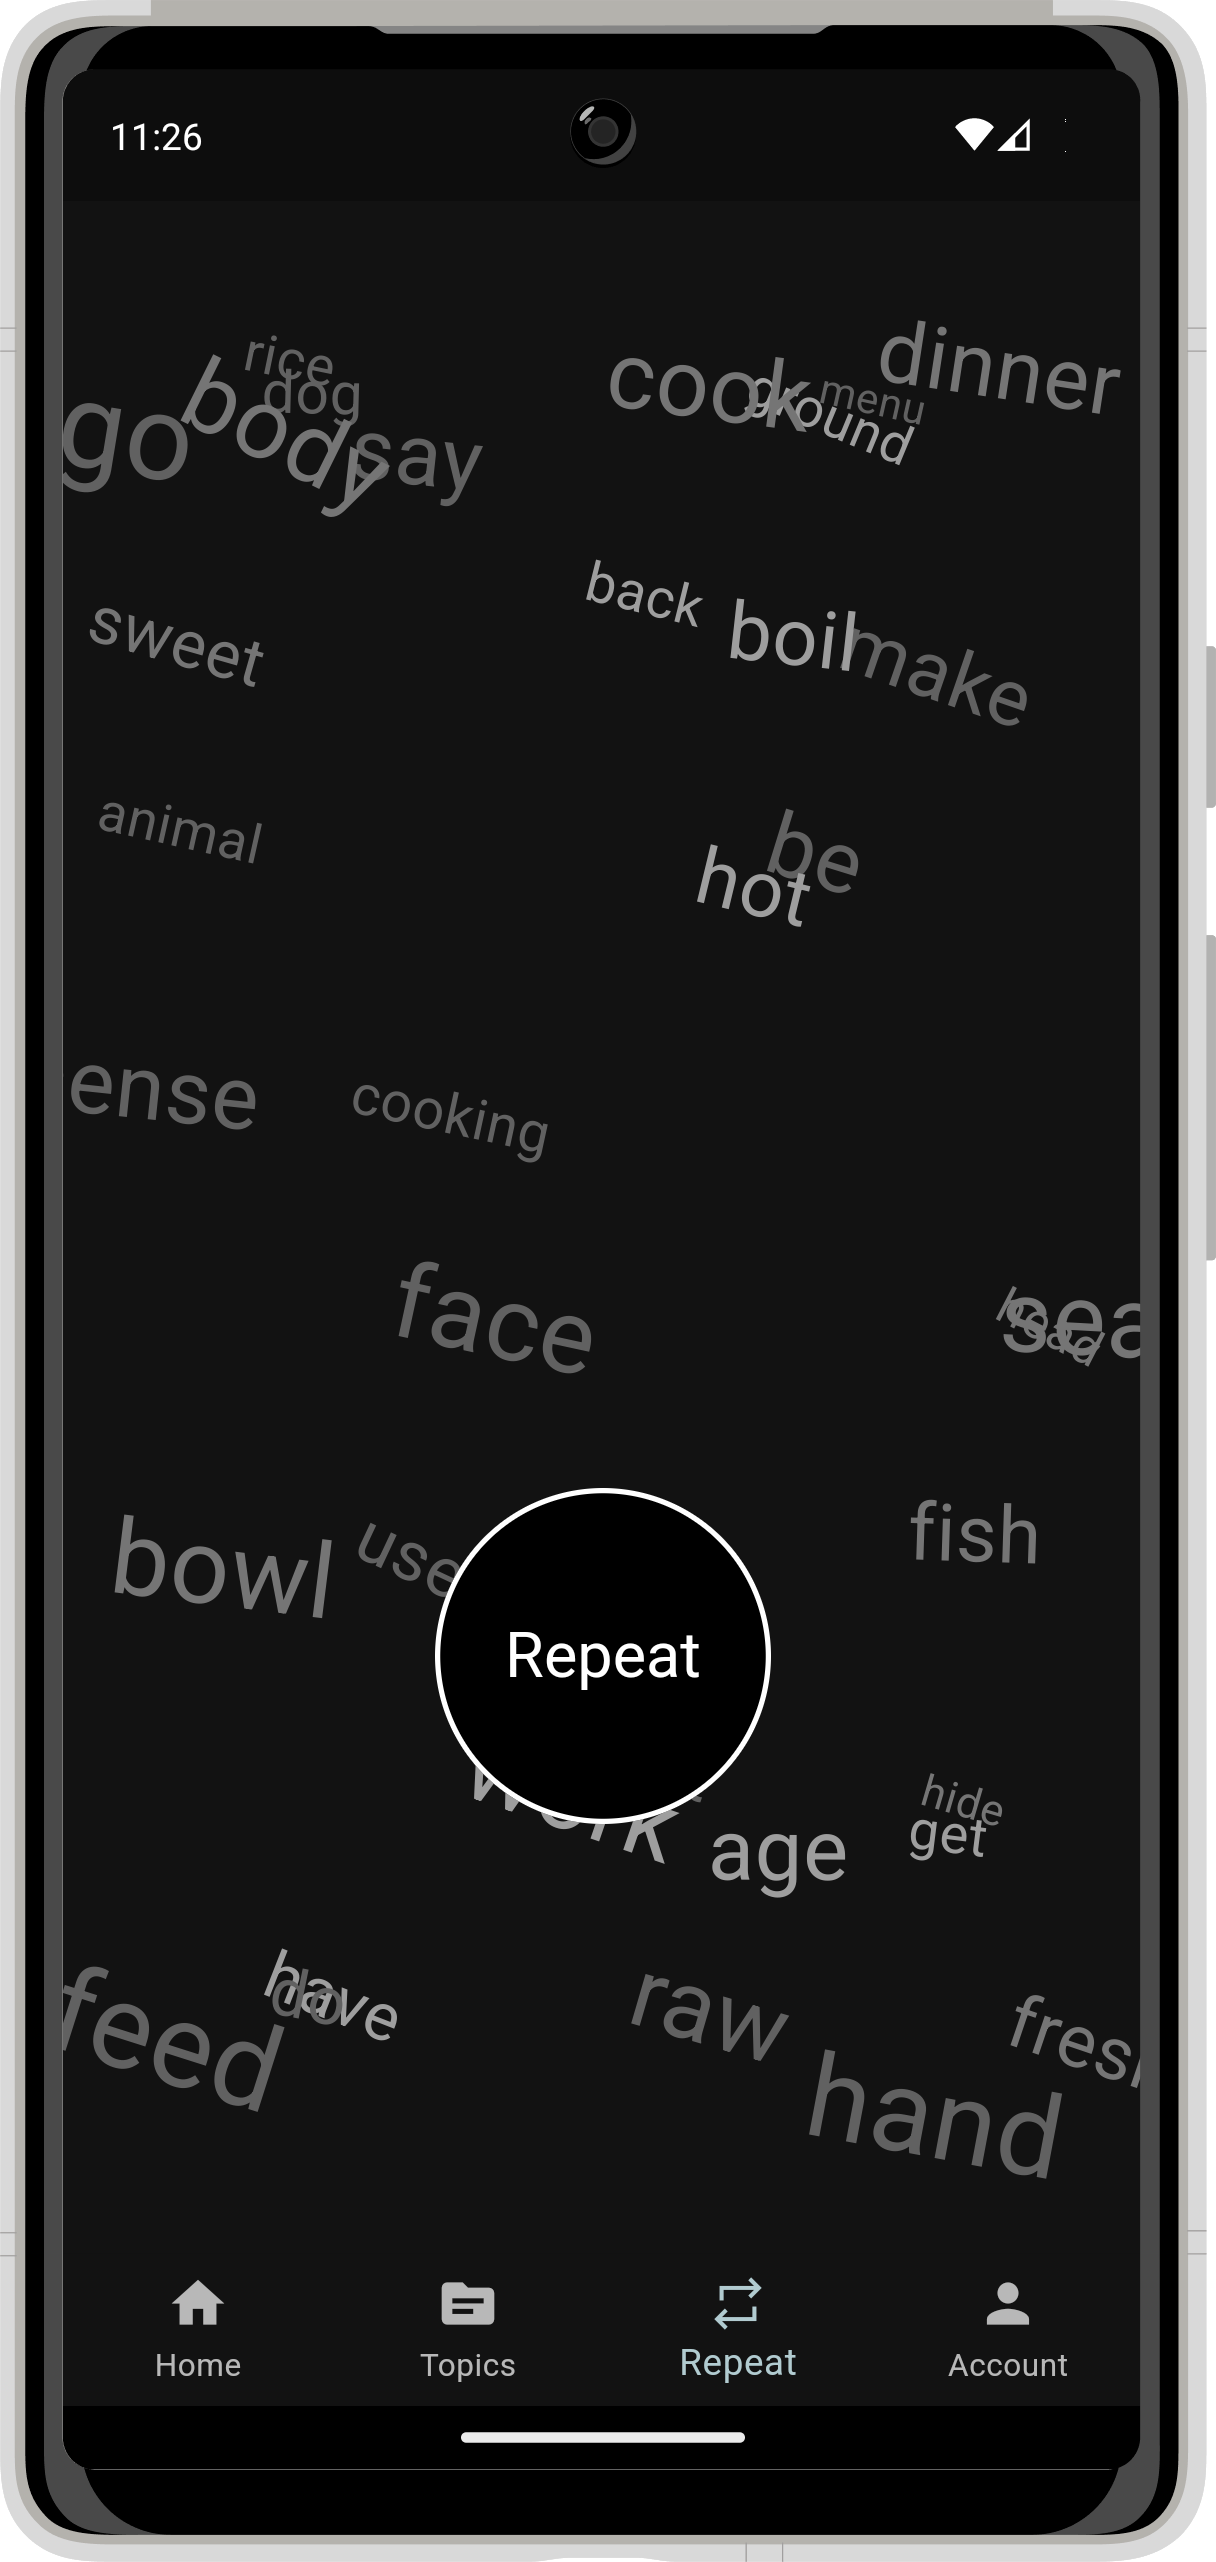
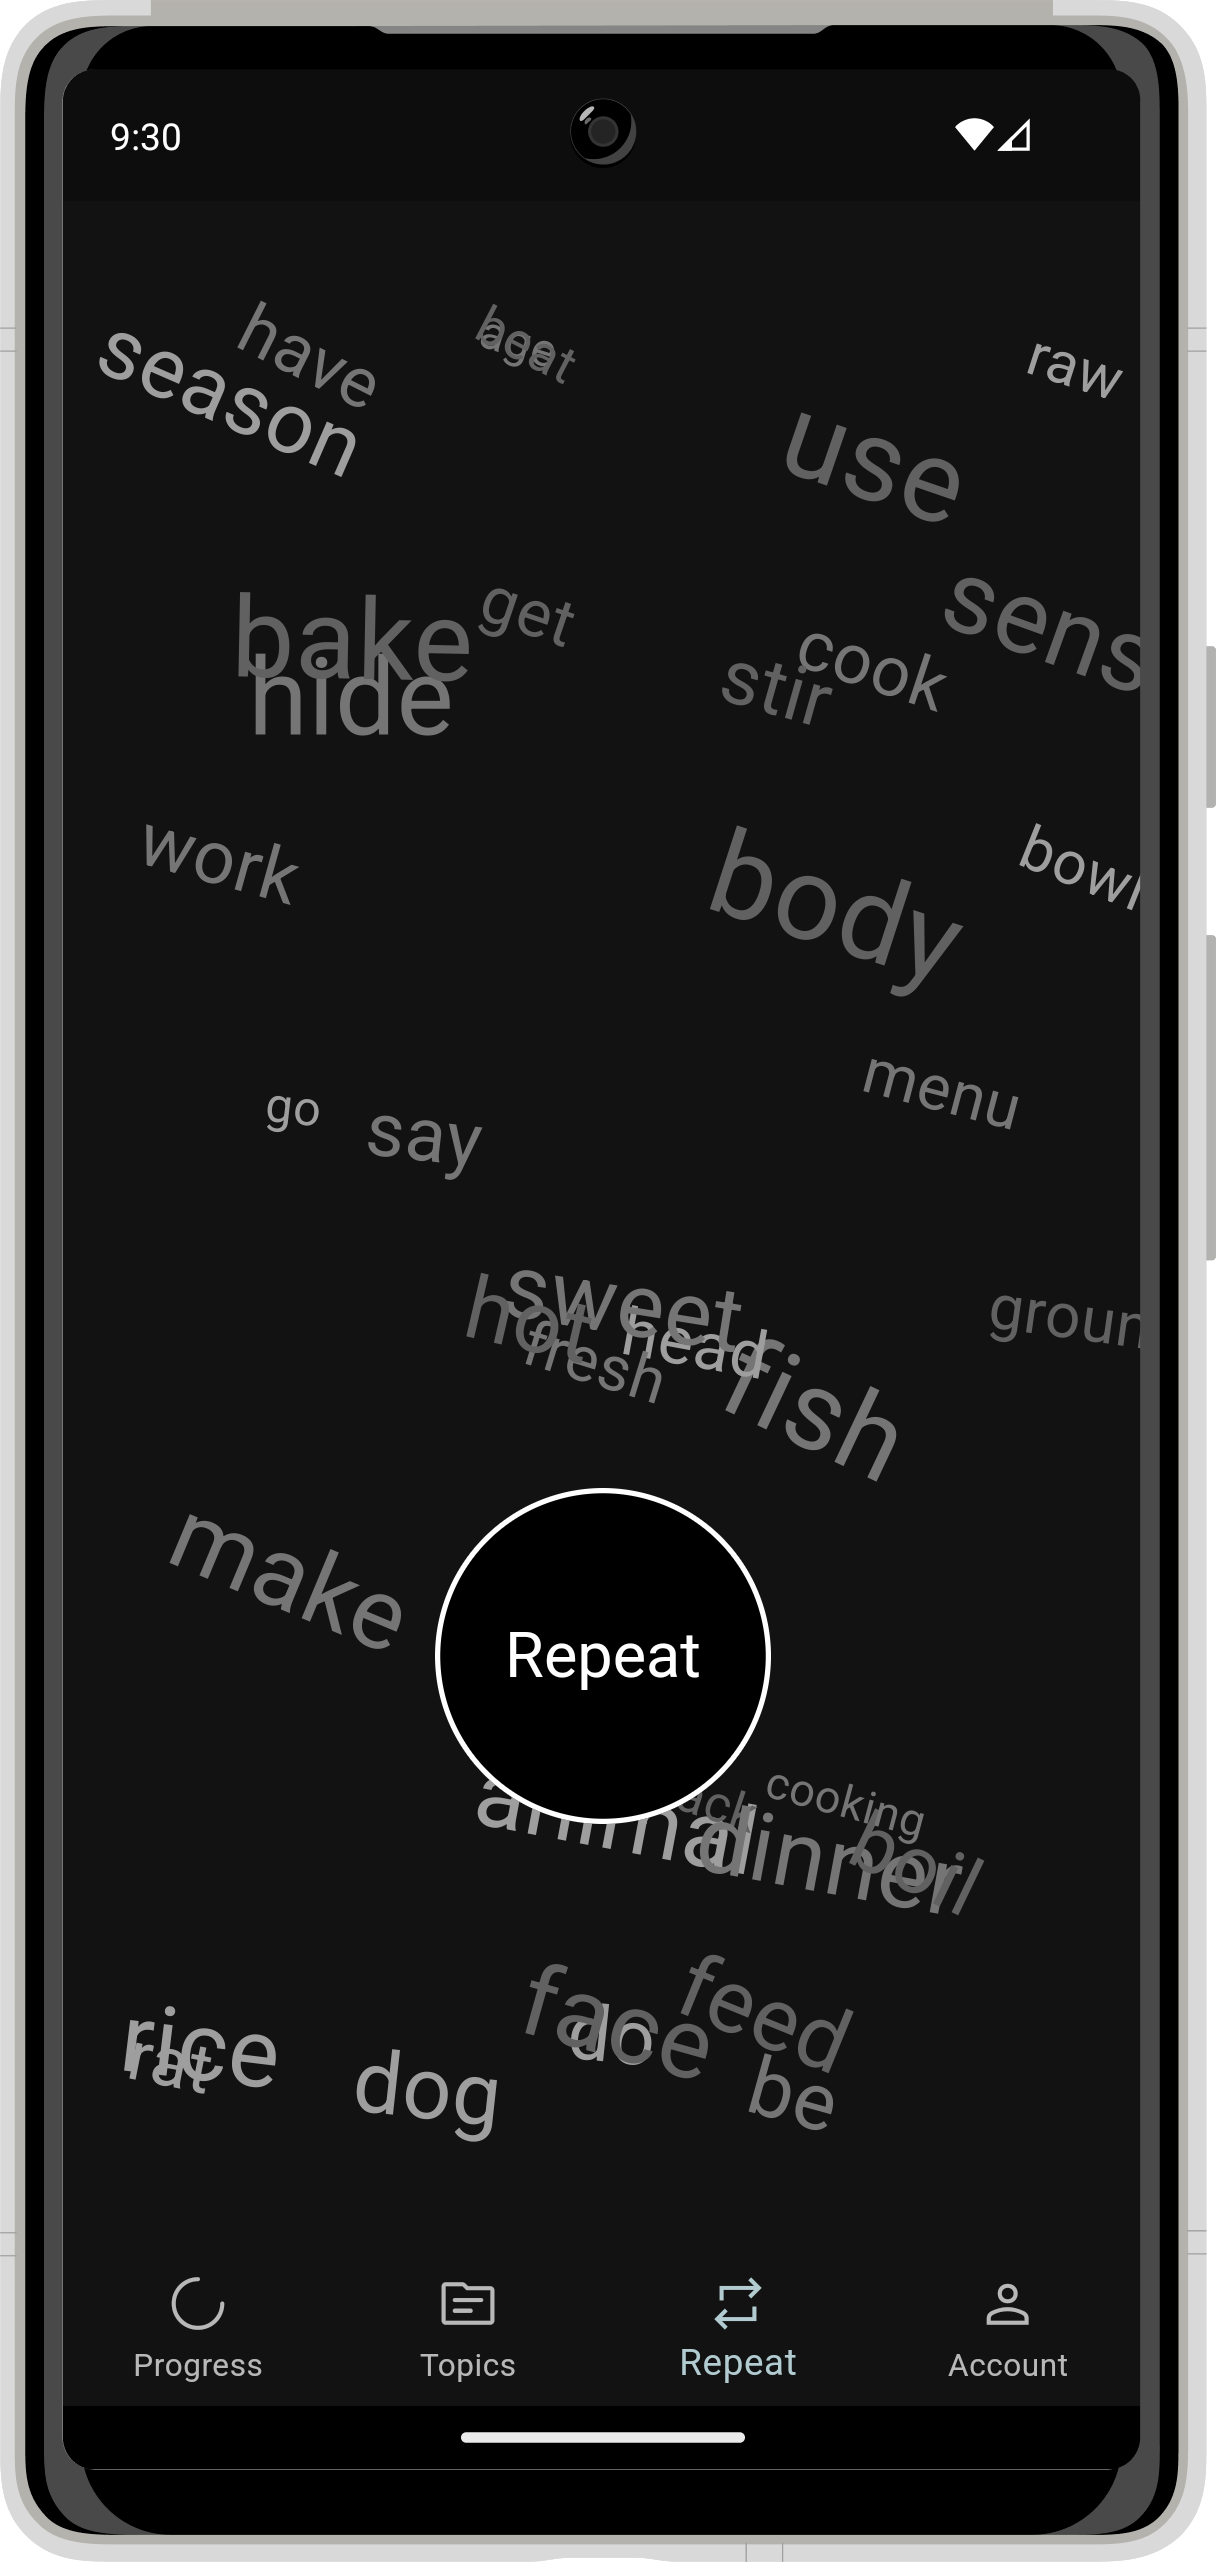
.

diff --git a/flutter_service_worker.js b/flutter_service_worker.js
@@ -6,7 +6,7 @@ const CACHE_NAME = 'flutter-app-cache';
 const RESOURCES = {".git/COMMIT_EDITMSG": "8cf8463b34caa8ac871a52d5dd7ad1ef",
 ".git/config": "55dfb8d6ff04fb0a8ec8c8e1c85ee269",
 ".git/description": "a0a7c3fff21f2aea3cfa1d0316dd816c",
-".git/FETCH_HEAD": "7440c351ae9080411820e39659045aec",
+".git/FETCH_HEAD": "b8417afabae4ef49076e6323fcb7696c",
 ".git/HEAD": "cf7dd3ce51958c5f13fece957cc417fb",
 ".git/hooks/applypatch-msg.sample": "ce562e08d8098926a3862fc6e7905199",
 ".git/hooks/commit-msg.sample": "579a3c1e12a1e74a98169175fb913012",
@@ -22,12 +22,12 @@ const RESOURCES = {".git/COMMIT_EDITMSG": "8cf8463b34caa8ac871a52d5dd7ad1ef",
 ".git/hooks/push-to-checkout.sample": "c7ab00c7784efeadad3ae9b228d4b4db",
 ".git/hooks/sendemail-validate.sample": "4d67df3a8d5c98cb8565c07e42be0b04",
 ".git/hooks/update.sample": "647ae13c682f7827c22f5fc08a03674e",
-".git/index": "d16e6ea34bec0821b8991287d4672f1b",
+".git/index": "1a4eb5ec011801ac96e6b8a3004a279d",
 ".git/info/exclude": "036208b4a1ab4a235d75c181e685e5a3",
-".git/logs/HEAD": "f95e6a3c84e4c5619e4345fb00fdd089",
-".git/logs/refs/heads/main": "f95e6a3c84e4c5619e4345fb00fdd089",
+".git/logs/HEAD": "b2805136673e1be4a28116e9ed29606b",
+".git/logs/refs/heads/main": "b2805136673e1be4a28116e9ed29606b",
 ".git/logs/refs/remotes/origin/HEAD": "838b855152d8df05301fdd7034416064",
-".git/logs/refs/remotes/origin/main": "de54068aa0b60619d3acf799c6bfb3ce",
+".git/logs/refs/remotes/origin/main": "58cb20b73fb634978c3737a614c8fc92",
 ".git/objects/04/4fd16176ef7e1d5ad27ed8c0347d8505f6f531": "0b8d7f70efc09596cbc4242cb3225b5c",
 ".git/objects/05/2d235ee81f6e4c2762411d4ab979f4cac0c8bc": "a948543180c0304538b74f7dbc62907f",
 ".git/objects/05/6ef07eb785d43ceff500dcf445f5755cdb7e52": "16302b5a934614eb66acb4cc9f52b6d3",
@@ -61,6 +61,7 @@ const RESOURCES = {".git/COMMIT_EDITMSG": "8cf8463b34caa8ac871a52d5dd7ad1ef",
 ".git/objects/25/fcea89b5c447f7478fda8d979062d9b9349fd3": "ed77762ef4e30406c702c43f31c1bff2",
 ".git/objects/28/97c01bd7b85a92c71db4805c95bc23bbcc0bf3": "8cd5a8fb640a15bbe319d206dde4d769",
 ".git/objects/29/267d5ab0a020347b7d41bde6a308e199121437": "53afd2a64dd18ede39d41e49c2be9529",
+".git/objects/29/af408499a384fcae87aae33f2168fbc218ee0c": "ab012c944a302253917cffa6fc06faa9",
 ".git/objects/2a/5628df00b89e71bbafbb341fdb0a89c3b51143": "a67646369d3f382f4e22249cff2a0cf6",
 ".git/objects/2c/3954d03d68d59bdcb7113dbf29457f828d577d": "94d9f761485c38effd05028be50582b5",
 ".git/objects/2d/f682ebbdf898e579128ceffa904e1b00466be7": "96f42b66573217d246407e232d1e07a6",
@@ -90,6 +91,7 @@ const RESOURCES = {".git/COMMIT_EDITMSG": "8cf8463b34caa8ac871a52d5dd7ad1ef",
 ".git/objects/42/3015003df72209ca145c2db3bb948775707057": "221a7352859dad4a7b3b88c889ead59b",
 ".git/objects/43/e382c6211ebc5ab2a7d4a6646edb71afdf738d": "cc50a0816a0c1d2330213d8f39582995",
 ".git/objects/44/34ad2e05cdd23354488009a3ef9824672c699b": "b496812499a65f9b47680ba0c398a109",
+".git/objects/44/ff03b6e19cd193882679e60a32e0d406a850ba": "d4b5a9c2749afe1d706e0e46654fb344",
 ".git/objects/45/c6f0bb4d09605fc2883ab3623f6af24936bde0": "7247c488b3455c16c02372053b0e6545",
 ".git/objects/46/9cf26cb1d5ebd20b753375a62b26a8bd824e2e": "e0e50d1bf91e4a2b52e89dfd25b451e1",
 ".git/objects/48/67219518b2cc1043c4bd4341cd486f1c64b3ab": "fc9030d918243b0ae22d0158622dc6d8",
@@ -117,6 +119,7 @@ const RESOURCES = {".git/COMMIT_EDITMSG": "8cf8463b34caa8ac871a52d5dd7ad1ef",
 ".git/objects/5a/5045b1ae899fa4f5b3278412fdc7d94341049f": "fa8f03f7b33ffaeee36bb0e3b2392f48",
 ".git/objects/5a/702ffa4ef867304d1a0c0ea97aa878317d7a5a": "bbeb5a138758f56dd720c0dac3790ba3",
 ".git/objects/5a/b17abfac0a5c374e60d318557311b8ed5b62db": "9a64451fa76d54bac1f2fdfe8e4f8feb",
+".git/objects/5b/0878026d206acbfaef46c1dae626471683432e": "577ae8617a38343e54ace696602d9b50",
 ".git/objects/5c/3f04c39121da47ae5c7bf11650f5d25d58a310": "b396eed1448ef15e065f9147f8de063b",
 ".git/objects/5d/6d52074b76718868bc2fc02580f553ecb6eb1c": "f724414529ec0d1fffb4a654a5bb3d28",
 ".git/objects/60/2a1658795e2ef140d498ea12cabe39ae725a3b": "fe687eb1f6c93bc2ab163e627200d252",
@@ -125,6 +128,7 @@ const RESOURCES = {".git/COMMIT_EDITMSG": "8cf8463b34caa8ac871a52d5dd7ad1ef",
 ".git/objects/63/565a7f7b66c7e90c22a045d92d70e5195e5ef5": "2e3d72cb0365ef3d3083b92d2f93b266",
 ".git/objects/65/5a11d40b7d4b473746539f038887cf4f9c8b58": "3cfbb58354057874023c235743fdf1f5",
 ".git/objects/65/ad840648561290118d47fa0be6cee8caa1665b": "c663b6ae72ad15fd4f9654ef6ebfb05d",
+".git/objects/66/53e73067c030bb2dfae11668f6f9baca45db26": "6c61fc9183da9b7d13295d6b9e39da7b",
 ".git/objects/66/59f1dd42339fd3a56291f9ccbf69795b62f254": "596341bac6dc11c68b28f6399763cb81",
 ".git/objects/67/ccd7ead472fec41b5b5f0fc92bdef1b6ebb1cf": "ba27ae4fec11a7c94cc6b26c9df25d39",
 ".git/objects/68/99f753656100a0a5d216e22456bcc434f479bf": "58a98c72117e50c84b1d2da71a31489a",
@@ -163,6 +167,7 @@ const RESOURCES = {".git/COMMIT_EDITMSG": "8cf8463b34caa8ac871a52d5dd7ad1ef",
 ".git/objects/94/0bb8f6de7a43ec8e192ce783c39c092211eed9": "4d4f72e5d7f5b2da8954af029ed2b79b",
 ".git/objects/94/736b6cd2c1d5f6b3a923600a5b67c82473907f": "330284079917f88d7d1c09f286c56855",
 ".git/objects/94/dc683c148fd8786a44c06d761d50b61e167e20": "7f45b2bcca8ac2e049b741e1d9f54eba",
+".git/objects/96/8de5295f356809758065fcf6cf32a91fd313bf": "cc1a47f5efa90890829b614403ce790e",
 ".git/objects/96/be68219326d58e8a1c4a1452cf50d55410776d": "70ee0eec5a2cbb91816dba69a601b08e",
 ".git/objects/97/ce8da807e3bc5060834c6467af4fe7175ec19b": "ab4694f4aed47ed9b11224cb45b9d463",
 ".git/objects/98/69b1a052db146aefefb6f8337cab2ed0140c55": "14deb5fde3d12e810a2b3756dfa3c36e",
@@ -256,26 +261,25 @@ const RESOURCES = {".git/COMMIT_EDITMSG": "8cf8463b34caa8ac871a52d5dd7ad1ef",
 ".git/objects/pack/pack-e035c850388dd82ec0edb1ec512cc10b1dc88914.idx": "9053b55bb4762ab653ad6916021d001d",
 ".git/objects/pack/pack-e035c850388dd82ec0edb1ec512cc10b1dc88914.pack": "78fa9697962ecabcc7d854226d6050ca",
 ".git/objects/pack/pack-e035c850388dd82ec0edb1ec512cc10b1dc88914.rev": "256a55f4bda4eab7534a8c6e3ec3c607",
-".git/ORIG_HEAD": "c85451d0a8ad985274f960e981add9a9",
+".git/ORIG_HEAD": "b27f6e63bf8080e1706957a72ed36bb5",
 ".git/packed-refs": "964ae5b46f8ee4b3fa92d426084cd936",
-".git/refs/heads/main": "c85451d0a8ad985274f960e981add9a9",
+".git/refs/heads/main": "b27f6e63bf8080e1706957a72ed36bb5",
 ".git/refs/remotes/origin/HEAD": "98b16e0b650190870f1b40bc8f4aec4e",
-".git/refs/remotes/origin/main": "c85451d0a8ad985274f960e981add9a9",
+".git/refs/remotes/origin/main": "b27f6e63bf8080e1706957a72ed36bb5",
 ".vscode/settings.json": "19751b2a32e46d1ba1477f357123a898",
-"assets/AssetManifest.bin": "fb4a2795dfb7cc885584f2c859f3d618",
-"assets/AssetManifest.bin.json": "5fd141db7125142f0a35416c1c885407",
-"assets/AssetManifest.json": "135313c8a0201dce1d7730304e0a9025",
+"assets/AssetManifest.bin": "59f4db4d9bf97a407bd8f6c62cf81836",
+"assets/AssetManifest.bin.json": "3b75cdd4298b52045aa8feb5b927a474",
+"assets/AssetManifest.json": "19bee88b4e9ad132bcf5990b00f4f323",
 "assets/assets/getFromStore.png": "fcb5d5a2ea550ab163756e6e635c64e8",
 "assets/assets/icon-192.png": "cc2894b915dee00d729a15023e5c29e9",
 "assets/assets/icon_16.png": "739a99e9a38304d5e8d1ada9e391dd07",
 "assets/assets/icon_512.png": "24e094a61cb258811feaeae5209df470",
 "assets/assets/pakku_192.png": "15ede61f52b1280b9aea5f1f510907fe",
 "assets/assets/pakku_256.png": "ad43c46b8781a1443488d6f6f04f790a",
-"assets/assets/ss1.png": "3382740a48e1b6cd04d9baf85edd460e",
+"assets/assets/ss1.png": "5e9c3b8839a6c1b302e46b3d498dc901",
 "assets/assets/ss2.png": "14365149e620f7f9e38f4647b8a7f162",
-"assets/assets/ss3.png": "0ff74de6806ac738c484ee05664f0db8",
-"assets/assets/ss4.png": "aa8aa8b3f2afddee0cb916a6748c9a36",
-"assets/assets/ss5.png": "fa9fb3099873e103447cc9f465246ef3",
+"assets/assets/ss3.png": "19780cb9b16a5f60d0fafb58dd821872",
+"assets/assets/ss5.png": "33f7ac62a77cdec6771c89981bf96ff7",
 "assets/FontManifest.json": "dc3d03800ccca4601324923c0b1d6d57",
 "assets/fonts/MaterialIcons-Regular.otf": "32fce58e2acb9c420eab0fe7b828b761",
 "assets/NOTICES": "f9f1e5cd00c9c4c3c619c596d170e0a7",
@@ -293,8 +297,8 @@ const RESOURCES = {".git/COMMIT_EDITMSG": "8cf8463b34caa8ac871a52d5dd7ad1ef",
 "flutter.js": "59a12ab9d00ae8f8096fffc417b6e84f",
 "icons/Icon-192.png": "ac9a721a12bbc803b44f645561ecb1e1",
 "icons/icon-512.png": "24e094a61cb258811feaeae5209df470",
-"index.html": "1c5c1011559166cf0364ddf97e7f8490",
-"/": "1c5c1011559166cf0364ddf97e7f8490",
+"index.html": "1dbf6f59ea678296b4c75b231c065fc1",
+"/": "1dbf6f59ea678296b4c75b231c065fc1",
 "main.dart.js": "9393df9b475c88c07eb7df934680690b",
 "manifest.json": "bedb0424d9745453cc9d7be374578231",
 "privacy.html": "184c7a5fc8fee45831fd9af4fe0413b5",

diff --git a/index.html b/index.html
@@ -34,7 +34,7 @@
 
   <script>
     // The value below is injected by flutter build, do not touch.
-    const serviceWorkerVersion = "2642007363";
+    const serviceWorkerVersion = "212653129";
   </script>
   <!-- This script adds the flutter initialization JS code -->
   <script src="flutter.js" defer></script>
